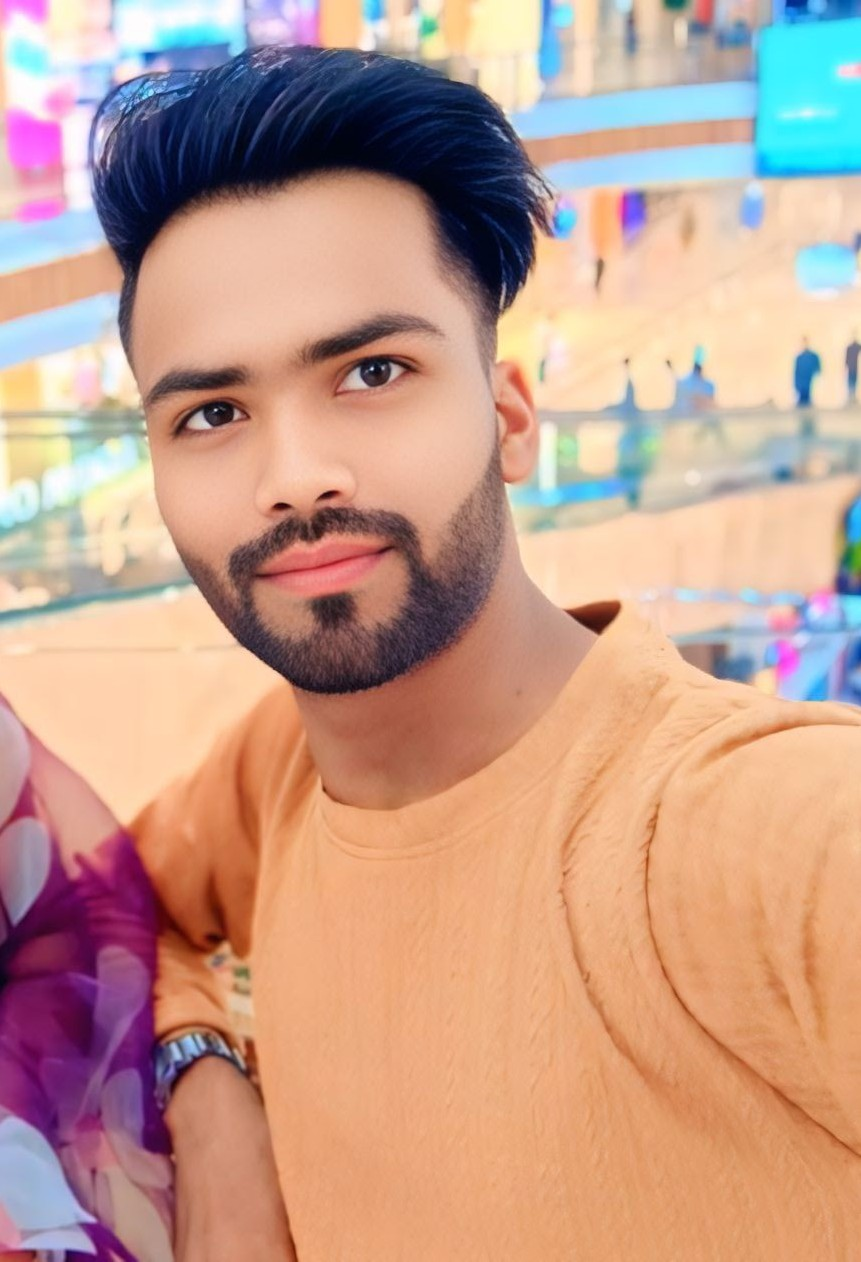
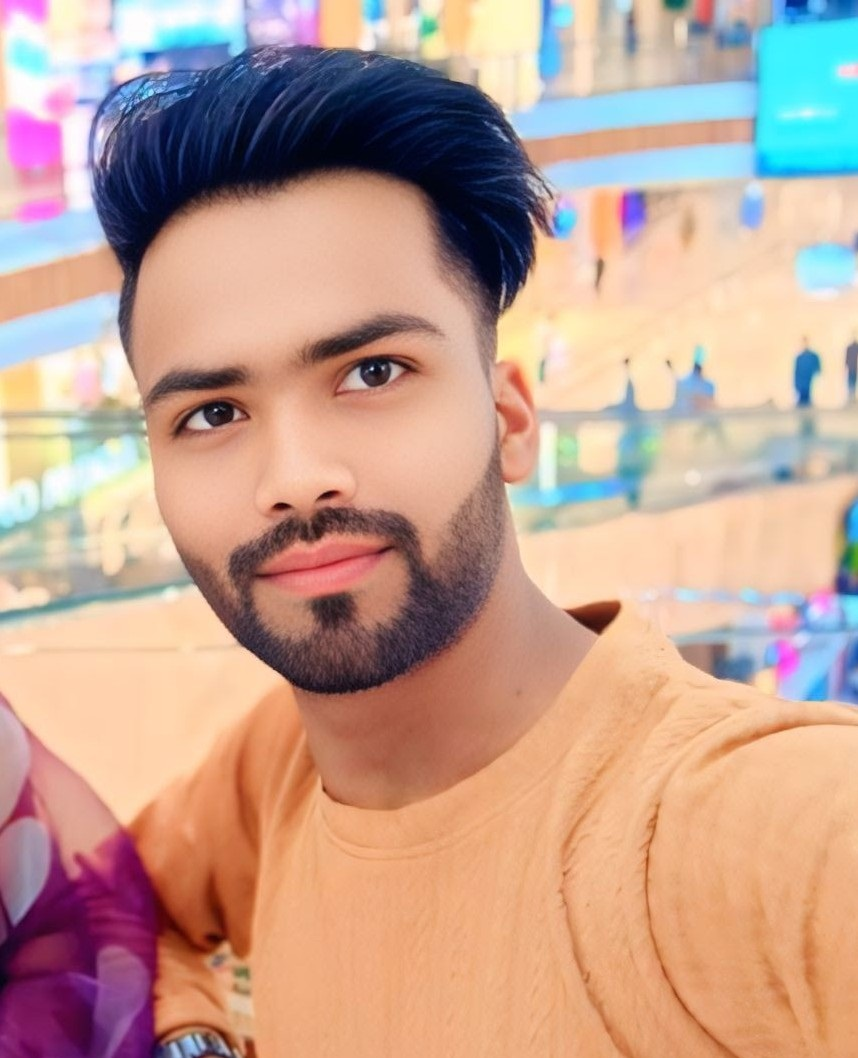
searcg certificate for student feature

diff --git a/src/App.jsx b/src/App.jsx
@@ -1,4 +1,5 @@
-import { BrowserRouter as Router, Routes, Route } from "react-router-dom";
+import { BrowserRouter as Router, Routes, Route, useLocation } from "react-router-dom";
+import { useEffect } from "react";
 import Home from "./pages/Home";
 import About from "./pages/AboutSection";
 import Courses from "./pages/CoursesSection";
@@ -21,145 +22,52 @@ import StudentNotes from "./pages/StudentNotes";
 import DiplomaPage from "./admin/DiplomaPage";
 import DiplomaList from "./admin/DiplomaList";
 import EditDiploma from "./admin/EditDiploma";
+import StudentCertificateSearch from "./pages/StudentCertificateSearch";
+
+function AppContent() {
+  const location = useLocation();
+  const isAdminRoute = location.pathname.startsWith("/admin");
+  const isSearchPage = location.pathname === "/search-certificate";
+
+  return (
+    <div className="min-h-screen flex flex-col">
+      <Navbar />
+      <div className="flex-grow">
+        <Routes>
+          <Route path="/" element={<Home />} />
+          <Route path="/aboutSection" element={<About />} />
+          <Route path="/coursesSection" element={<Courses />} />
+          <Route path="/contactSection" element={<ContactSection />} />
+          <Route path="/admin-login" element={<AdminLogin />} />
+          <Route path="/notes" element={<StudentNotes />} />
+          <Route path="/certificate/search" element={<StudentCertificateSearch />} />
+
+          <Route path="/admin" element={<ProtectedRoute><Dashboard /></ProtectedRoute>} />
+          <Route path="/admin/add-student" element={<ProtectedRoute><AdminAddStudent /></ProtectedRoute>} />
+          <Route path="/admin/students" element={<ProtectedRoute><StudentList /></ProtectedRoute>} />
+          <Route path="/admin/generate-certificate" element={<ProtectedRoute><CertificateForm /></ProtectedRoute>} />
+          <Route path="/admin/certificate/:id" element={<ProtectedRoute><CertificatePage /></ProtectedRoute>} />
+          <Route path="/admin/certificates" element={<ProtectedRoute><CertificateList /></ProtectedRoute>} />
+          <Route path="/admin/edit-certificate/:id" element={<ProtectedRoute><EditCertificate /></ProtectedRoute>} />
+          <Route path="/admin/generate-diploma" element={<ProtectedRoute><DiplomaForm /></ProtectedRoute>} />
+          <Route path="/admin/diploma/:id" element={<ProtectedRoute><DiplomaPage /></ProtectedRoute>} />
+          <Route path="/admin/diploma" element={<ProtectedRoute><DiplomaList /></ProtectedRoute>} />
+          <Route path="/admin/edit-diploma/:id" element={<ProtectedRoute><EditDiploma /></ProtectedRoute>} />
+          <Route path="/admin/upload-notes" element={<ProtectedRoute><NotesUpload /></ProtectedRoute>} />
+          <Route path="/admin/notes" element={<ProtectedRoute><NotesList /></ProtectedRoute>} />
+        </Routes>
+      </div>
+      {!isAdminRoute && isSearchPage && <Footer />} {/* ✅ Footer sirf non-admin pages par */}
+    </div>
+  );
+}
 
 function App() {
   return (
     <Router>
-      <div className="min-h-screen flex flex-col">
-        <Navbar />
-        <div className="flex-grow">
-          <Routes>
-            <Route path="/" element={<Home />} />
-            <Route path="/aboutSection" element={<About />} />
-            <Route path="/coursesSection" element={<Courses />} />
-            <Route path="/contactSection" element={<ContactSection />} />
-            <Route path="/admin-login" element={<AdminLogin />} />
-            <Route path="/notes" element={<StudentNotes />} />
-            <Route
-              path="/admin/add-student"
-              element={
-                <ProtectedRoute>
-                  <AdminAddStudent />
-                </ProtectedRoute>
-              }
-            />
-
-            <Route
-              path="/admin"
-              element={
-                <ProtectedRoute>
-                  <Dashboard />
-                </ProtectedRoute>
-              }
-            />
-
-            <Route
-              path="/admin/students"
-              element={
-                <ProtectedRoute>
-                  <StudentList />
-                </ProtectedRoute>
-              }
-            />
-
-            <Route
-              path="/admin/generate-certificate"
-              element={
-                <ProtectedRoute>
-                  <CertificateForm />
-                </ProtectedRoute>
-              }
-            />
-
-            <Route
-              path="/admin/certificate/:id"
-              element={
-                <ProtectedRoute>
-                  <CertificatePage />
-                </ProtectedRoute>
-              }
-            />
-
-
-            <Route
-              path="/admin/certificates"
-              element={
-                <ProtectedRoute>
-                  <CertificateList />
-                </ProtectedRoute>
-              }
-            />
-
-            <Route
-              path="/admin/edit-certificate/:id"
-              element={
-                <ProtectedRoute>
-                  <EditCertificate />
-                </ProtectedRoute>
-              }
-            />
-
-            <Route
-              path="/admin/generate-diploma"
-              element={
-                <ProtectedRoute>
-                  <DiplomaForm />
-                </ProtectedRoute>
-              }
-            />
-
-            <Route
-              path="/admin/upload-notes"
-              element={
-                <ProtectedRoute>
-                  <NotesUpload />
-                </ProtectedRoute>
-              }
-            />
-            
-            <Route
-              path="/admin/diploma/:id"
-              element={
-                <ProtectedRoute>
-                  <DiplomaPage />
-                </ProtectedRoute>
-              }
-            />
-
-            <Route
-              path="/admin/notes"
-              element={
-                <ProtectedRoute>
-                  <NotesList />
-                </ProtectedRoute>
-              }
-            />
-
-            <Route
-              path="/admin/diploma"
-              element={
-                <ProtectedRoute>
-                  <DiplomaList />
-                </ProtectedRoute>
-              }
-            />
-
-            <Route
-              path="/admin/edit-diploma/:id"
-              element={
-                <ProtectedRoute>
-                  <EditDiploma />
-                </ProtectedRoute>
-              }
-            />
-
-          </Routes>
-        </div>
-        <Footer />
-      </div>
+      <AppContent />
     </Router>
   );
 }
 
 export default App;
-

diff --git a/src/pages/StudentCertificateSearch.jsx b/src/pages/StudentCertificateSearch.jsx
@@ -1,0 +1,95 @@
+// src/pages/StudentCertificateSearch.jsx
+
+import { useState } from "react";
+import certificateImg from "../admin/images/certificate.png";
+
+export default function StudentCertificateSearch() {
+    const [regNo, setRegNo] = useState("");
+    const [certificate, setCertificate] = useState(null);
+    const [error, setError] = useState("");
+
+    const handleSearch = async () => {
+        setError("");
+        setCertificate(null);
+
+        try {
+            const res = await fetch(`http://localhost:5000/api/certificates/search/${regNo}`);
+            const data = await res.json();
+            if (res.ok) {
+                setCertificate(data);
+            } else {
+                setError("Certificate not found.");
+            }
+        } catch (err) {
+            console.error(err);
+            setError("Something went wrong.");
+        }
+    };
+
+    return (
+        <div className="flex items-center justify-center min-h-screen bg-gray-100 px-4 py-6">
+            {!certificate ? (
+                <div className="bg-white shadow-md rounded-lg p-6 w-full max-w-md text-center">
+                    <h2 className="text-2xl font-bold mb-6">Search Your Certificate</h2>
+
+                    <input
+                        type="text"
+                        placeholder="Enter Registration Number"
+                        value={regNo}
+                        onChange={(e) => setRegNo(e.target.value)}
+                        className="w-full border p-2 rounded mb-4"
+                    />
+                    <button
+                        onClick={handleSearch}
+                        className="bg-blue-600 hover:bg-blue-700 text-white px-4 py-2 rounded w-full"
+                    >
+                        Search
+                    </button>
+
+                    {error && <p className="text-red-600 mt-4">{error}</p>}
+                </div>
+            ) : (
+                <div className="overflow-auto w-full">
+                    <div
+                        className="relative mx-auto w-[840px] h-[600px] bg-cover bg-center shadow-md scale-[0.6] sm:scale-100 origin-top mt-10"
+                        style={{ backgroundImage: `url('${certificateImg}')` }}
+                    >
+                        {/* Text Fields */}
+                        <div className="absolute top-[257px] left-[400px] text-[16px] font-bold">
+                            {certificate.name.toUpperCase()}
+                        </div>
+                        <div className="absolute top-[285px] left-[230px] text-[16px] font-bold">
+                            {certificate.father_name.toUpperCase()}
+                        </div>
+                        <div className="absolute top-[341px] left-[233px] text-[16px] font-bold">
+                            {certificate.course.toUpperCase()}
+                        </div>
+                        <div className="absolute top-[341px] right-[165px] text-[16px] font-bold">
+                            {certificate.duration.toUpperCase()}
+                        </div>
+                        <div className="absolute bottom-[206px] left-[435px] text-[16px] font-bold">
+                            "{certificate.grade}"
+                        </div>
+                        <div className="absolute bottom-[179px] left-[300px] text-[16px] font-bold">
+                            {certificate.certificate_number}MBD/11907
+                        </div>
+                        <div className="absolute bottom-[179px] right-[95px] text-[16px] font-bold">
+                            {new Date(certificate.issue_date).toLocaleDateString("en-GB")}
+                        </div>
+
+                        {/* Student Photo */}
+                        <img
+                            src={`http://localhost:5000${certificate.photo}`}
+                            alt="Student"
+                            className="absolute top-[136px] left-[581px] w-[88px] h-[125px] object-cover rounded border-[3px] border-orange-400"
+                        />
+                    </div>
+                    <p className="text-center text-sm text-gray-500 mt-3 sm:hidden">
+                        📱 Rotate your phone to landscape for best viewing experience.
+                    </p>
+                </div>
+            )}
+        </div>
+    );
+
+}

diff --git a/src/pages/FacultySection.jsx b/src/pages/FacultySection.jsx
@@ -108,11 +108,21 @@ const FacultySection = () => {
               key={i}
               className="min-w-[250px] inline-block bg-white p-6 rounded-xl shadow hover:shadow-lg transition text-center"
             >
-              <img
-                src={faculty.image}
-                alt={faculty.name}
-                className="w-24 h-24 rounded-full mx-auto mb-4 object-cover"
-              />
+              <div className="relative group">
+                <img
+                  src={faculty.image}
+                  alt={faculty.name}
+                  className="w-24 h-24 rounded-full mx-auto mb-4 object-cover pointer-events-none select-none"
+                  onContextMenu={(e) => e.preventDefault()}
+                  draggable="false"
+                />
+                <div
+                  className="absolute top-0 left-0 w-full h-full bg-transparent z-10"
+                  onContextMenu={(e) => e.preventDefault()}
+                  onDragStart={(e) => e.preventDefault()}
+                />
+              </div>
+
               <h3 className="text-lg font-semibold text-gray-800">{faculty.name}</h3>
               <p className="text-sm text-gray-600">{faculty.role}</p>
             </div>

diff --git a/src/admin/CertificateList.jsx b/src/admin/CertificateList.jsx
@@ -68,7 +68,7 @@ export default function CertificateList() {
     });
 
     const [currentPage, setCurrentPage] = useState(1);
-    const certificatesPerPage = 10;
+    const certificatesPerPage = 20;
 
     const indexOfLastCert = currentPage * certificatesPerPage;
     const indexOfFirstCert = indexOfLastCert - certificatesPerPage;
@@ -81,7 +81,7 @@ export default function CertificateList() {
             <AdminSidebar />
             <div className="flex-1 bg-gray-100 min-h-screen">
                 <AdminHeader />
-                <div className="max-w-7xl mx-auto mt-10 p-6 bg-white rounded shadow">
+                <div className="max-w-7xl mx-auto p-6 bg-white rounded shadow">
                     <h2 className="text-2xl font-bold mb-4">All Certificates</h2>
 
                     <div className="flex justify-between mb-4">

diff --git a/src/pages/AboutSection.jsx b/src/pages/AboutSection.jsx
@@ -7,7 +7,7 @@ export default function About() {
         <p className="text-gray-700 text-lg leading-relaxed mb-10">
           At <span className="font-semibold">CEC Computer Center</span>, we are committed to providing
           practical computer education to help students build real-world skills. Our mission is to empower youth with
-          essential computer knowledge and software training including <strong>MS Office, Excel, Tally, HTML, CSS, JavaScript</strong>, and more.
+          essential computer knowledge and software training including <strong>MS Office, Excel, Tally, HTML, CSS, JavaScript, Java, Python</strong>, and more.
         </p>
 
         <div className="grid md:grid-cols-2 gap-8 text-left">

diff --git a/src/admin/CertificatePage.jsx b/src/admin/CertificatePage.jsx
@@ -124,7 +124,6 @@ export default function CertificatePage() {
       <div className="flex-1 bg-gray-100 min-h-screen">
         <AdminHeader />
         <div className="p-4">
-
           <div
             id="print-area"
             style={{

diff --git a/vite.config.js b/vite.config.js
@@ -8,4 +8,8 @@ export default defineConfig({
     tailwindcss(),
     react()
   ],
+    server: {
+    host: '0.0.0.0',
+    port: 5173,
+  },
 })

diff --git a/src/index.css b/src/index.css
@@ -31,5 +31,5 @@
 }
 .scrollbar-hide {
   -ms-overflow-style: none;
-  scrollbar-width: none;
+  /* scrollbar-width: none; */
 }
